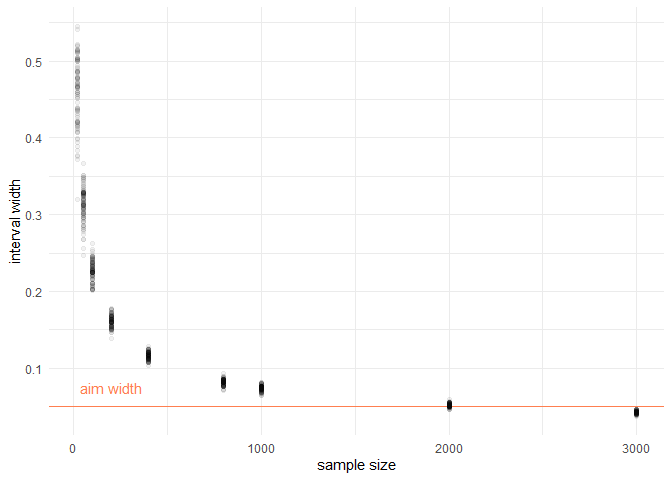
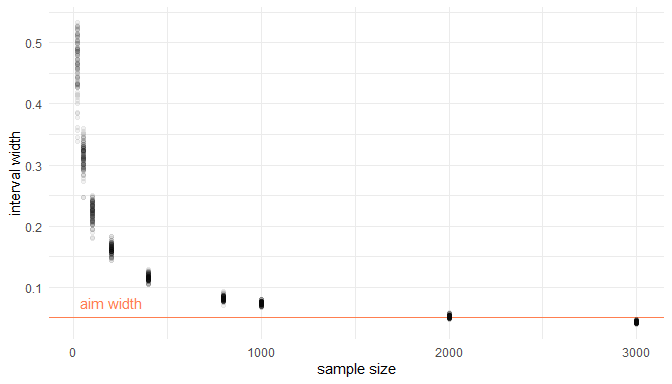
Finnish chapter 2

diff --git a/chapter2.html b/chapter2.html
@@ -1664,7 +1664,7 @@ map_dfr(n_list, int_width) %&gt;%
   geom_point(aes(x = n.list, y = width), alpha = 0.05) +
   labs(x = &quot;sample size&quot;, y = &quot;interval width&quot;) +
   theme_minimal()</code></pre>
[2 lines of base64/hex data omitted]
 </div>
 </div>
 <div id="easy-practices" class="section level1" number="3">
@@ -1787,6 +1787,10 @@ tibble(
 <p>Option 3:</p>
 <pre class="r"><code>grid_approx(w = 5, l = 2) # 5 water, 2 land</code></pre>
[1 lines of base64/hex data omitted]
+</div>
+<div id="question-2m3-to-2h4" class="section level2" number="4.3">
+<h2 number="4.3"><span class="header-section-number">4.3</span> Question 2M3 to 2H4</h2>
+<p>Questions 2M3 to 2H4 can be solved by thinking and applying the equations given in the chapter. No code is needed to solve the questions and each question is the same as in the first edition, why I refer to the <a href="https://jmgirard.com/statistical-rethinking-ch2/">solutions from Jeffrey Girard</a> here.</p>
 </div>
 </div>
 

diff --git a/chapter2.md b/chapter2.md
@@ -161,6 +161,7 @@ map_dfr(n_list, int_width) %>%
 ```
 
 ![](chapter2_files/figure-html/homework 3 simulation-1.png)<!-- -->
+It seems that more than 2000, but less than 3000 globe tosses are sufficient to produce interval that precise. 
 
 # Easy practices
 
@@ -343,4 +344,6 @@ grid_approx(w = 5, l = 2) # 5 water, 2 land
 
 ![](chapter2_files/figure-html/2M2 option 3-1.png)<!-- -->
 
+## Question 2M3 to 2H4 
 
+Questions 2M3 to 2H4 can be solved by thinking and applying the equations given in the chapter. No code is needed to solve the questions and each question is the same as in the first edition, why I refer to the [solutions from Jeffrey Girard](https://jmgirard.com/statistical-rethinking-ch2/) here. 
